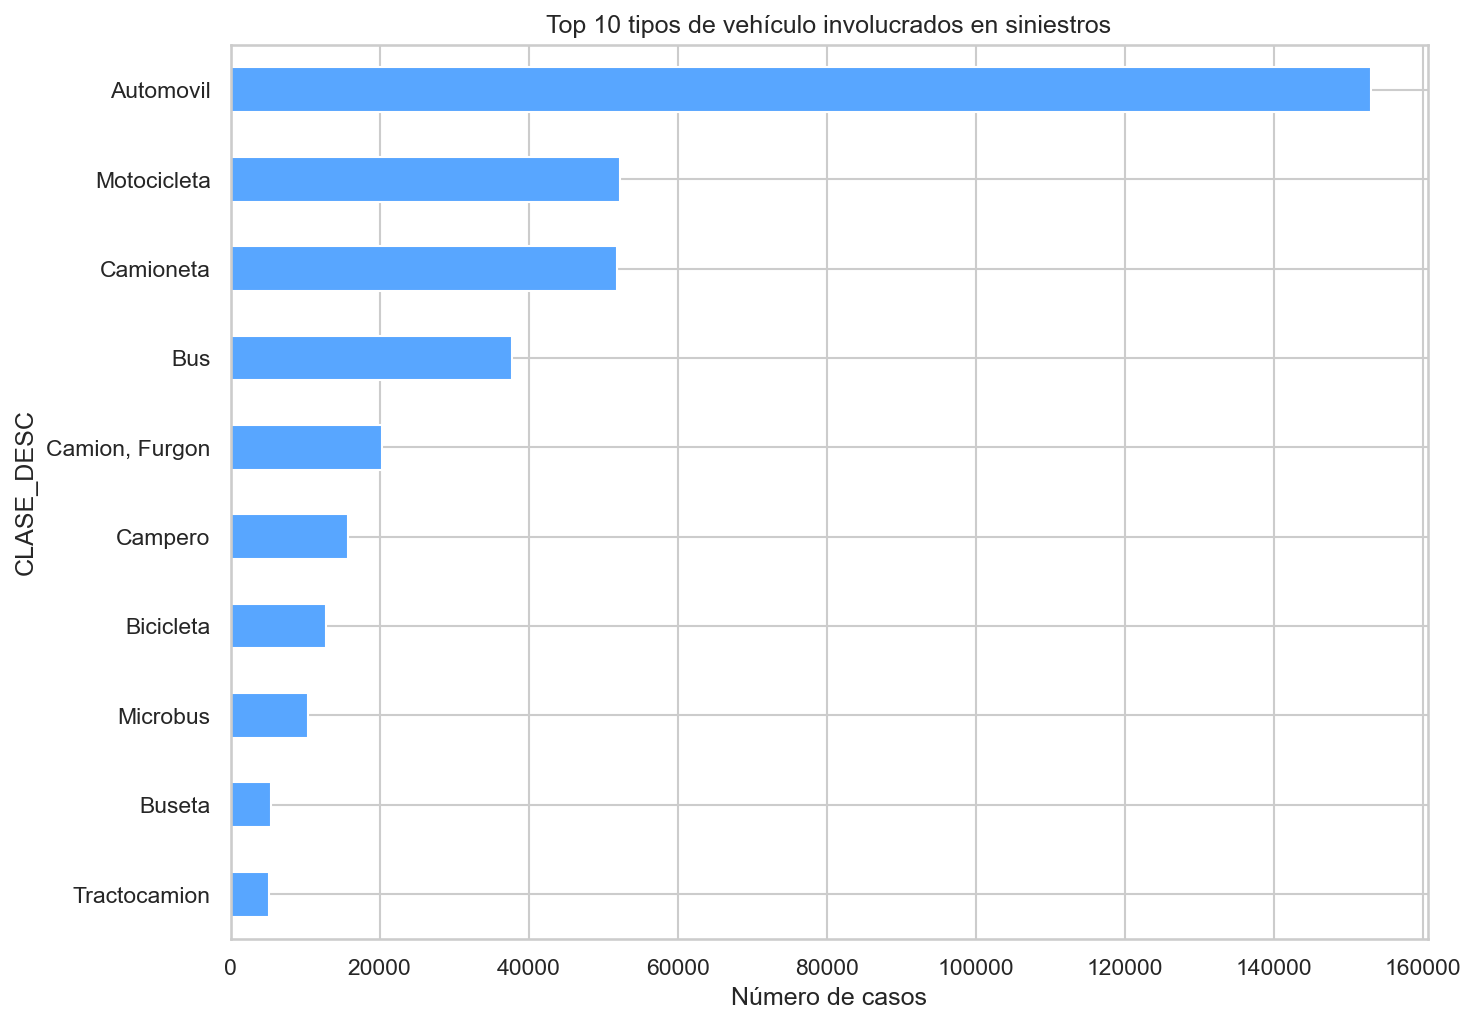
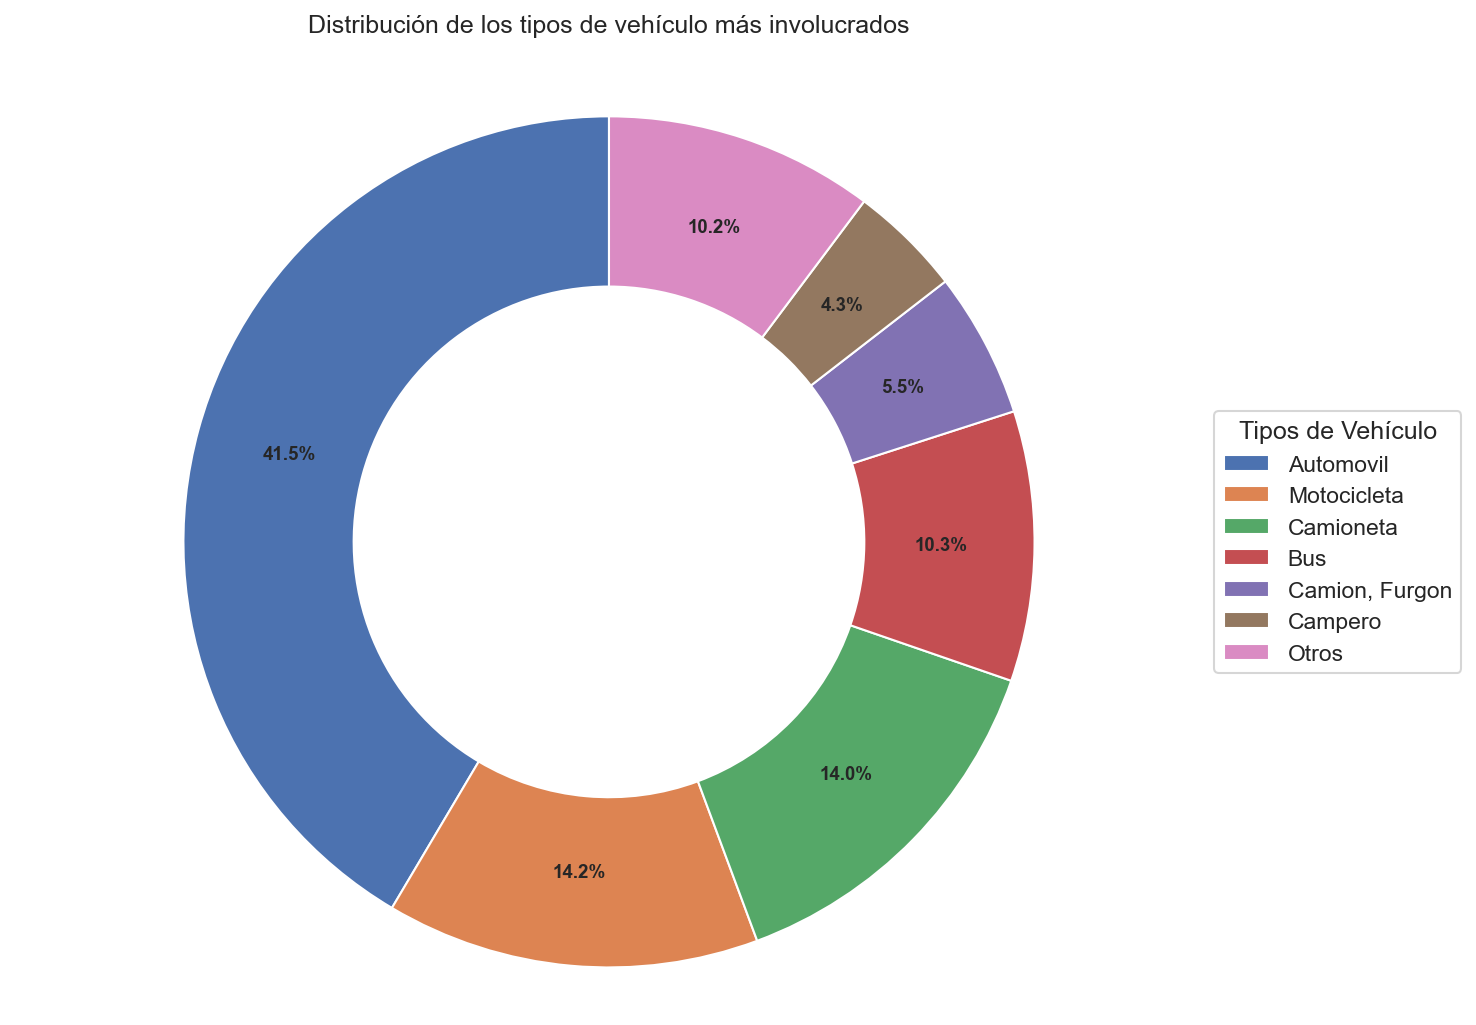
grafico de dona

diff --git a/src/analysis/analisis_vehiculos.py b/src/analysis/analisis_vehiculos.py
@@ -1,21 +1,50 @@
 import matplotlib.pyplot as plt
-from src.graficos import guardar, COLOR_AZUL
+from src.graficos import guardar
 
 
 def analizar(vehiculos, carpeta):
-    top_clase = vehiculos["CLASE_DESC"].value_counts().head(10)
 
-    plt.figure(figsize=(10, 7))
-    top_clase.plot(
-    kind="barh",
-    color=COLOR_AZUL)
-    plt.title("Top 10 tipos de vehículo involucrados en siniestros")
-    plt.xlabel("Número de casos")
-    plt.gca().invert_yaxis()
+    conteo = vehiculos["CLASE_DESC"].value_counts()
+
+    top6 = conteo.head(6)
+    otros = conteo.iloc[6:].sum()
+
+    top_clase = top6.copy()
+    if otros > 0:
+        top_clase["Otros"] = otros
+
+    # Gráfico de dona
+    fig, ax = plt.subplots(figsize=(10, 7))
+
+    wedges, texts, autotexts = ax.pie(
+        top_clase,
+        autopct="%1.1f%%",
+        startangle=90,
+        pctdistance=0.78,
+        wedgeprops=dict(width=0.4, edgecolor="white"),
+    )
+
+    plt.setp(autotexts, size=9, weight="bold")
+
+    ax.legend(
+        wedges,
+        top_clase.index,
+        title="Tipos de Vehículo",
+        loc="center left",
+        bbox_to_anchor=(1, 0, 0.5, 1),
+    )
+
+    ax.set_title("Distribución de los tipos de vehículo más involucrados", pad=20)
+    ax.axis("equal")
+
+    plt.tight_layout()
     guardar("top_vehiculos.png", carpeta)
+    plt.close(fig)
 
     conclusion = (
-        f"El tipo de vehículo más involucrado en siniestros es '{top_clase.index[0]}' "
-        f"({top_clase.iloc[0]:,} casos), seguido de '{top_clase.index[1]}' ({top_clase.iloc[1]:,} casos)."
-    )
+        f"El tipo de vehículo más involucrado en siniestros es "
+        f"'{top6.index[0]}' ({top6.iloc[0]:,} casos), seguido de "
+        f"'{top6.index[1]}' ({top6.iloc[1]:,} casos). "
+      )
+
     return [conclusion]
